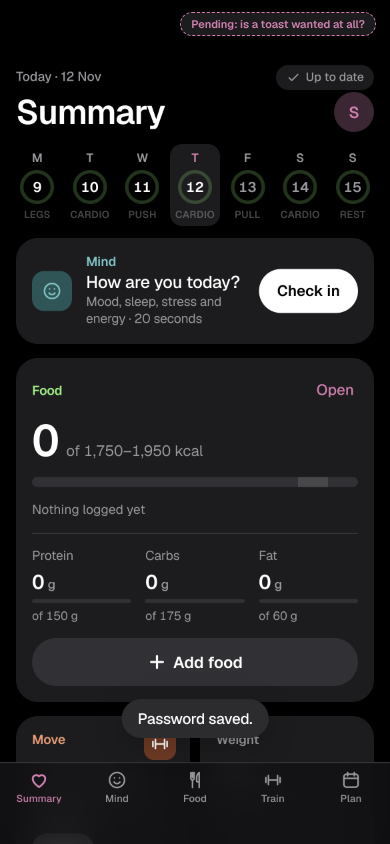
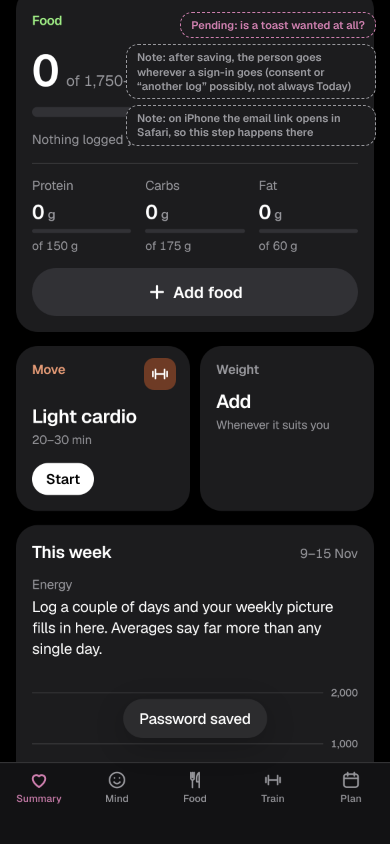
Set a new password: boards revised after design review (still draft)
Claude-Session: https://claude.ai/code/session_01QFyMgj1mZ1V9GsaoNwqiJf

diff --git a/docs/design/set-password-v1/README.md b/docs/design/set-password-v1/README.md
@@ -1,18 +1,32 @@
 # Set a new password v1 boards (DRAFT, not approved)
 
-**Status: draft for Benn's or Sara's review, 12 Nov 2026. Not approved: don't build from these.** Per CLAUDE.md, no design ships without Benn's or Sara's approval; when one of them approves or changes these boards, this folder is updated to match.
+**Status: draft for Benn's or Sara's review, 12 Nov 2026, revised after a design review the same day. Not approved: don't build from these.** Per CLAUDE.md, no design ships without Benn's or Sara's approval; when one of them approves or changes these boards, this folder is updated to match.
 
 - Why: the reset link from "Forgot?" signs the person straight in with a recovery session. The app never handles Supabase's `PASSWORD_RECOVERY` event or calls `updateUser({ password })`, so nobody can set a new password, and an account that only uses Google can't add one. This adds one step.
 - Built on the existing sign-in frame (`src/screens/AuthScreen.tsx`, the `auth2` styles in `src/styles/theme.css`), so it adds no new pattern.
 - Live boards, with notes and both modes side by side: the claude.ai Design canvas, page "Set a new password (draft for Benn/Sara)": https://claude.ai/artifact/EYDHM6mLouqwPsWxcDsWEb (only people the canvas is shared with can open it)
-- These PNGs are 390 px exports of the same boards, light and dark, drawn at an iPhone's 390 × 844 with its top and bottom safe areas. Dashed tags on a board mark items still pending.
+- These PNGs are 390 px exports of the same boards, light and dark, drawn at an iPhone's 390 × 844 with its top and bottom safe areas. Board 5 is taller (980) because that screen scrolls. Dashed tags on a board mark items still pending (mauve) or notes (grey).
 
 ## Open decisions for Benn or Sara
 
-1. The foot link on board 1: "Not now" (keeps the person signed in and opens the app) or "Cancel and sign out".
-2. Board 4: whether to show the toast "Password saved." at all, or land on Today with nothing.
-3. Board 5 is a new state: a link that has expired or was already used opens "Reset your password" with a notice.
-4. Board 3 wording: "Saving a new password needs a connection. Try again when you're online." (the brief said "You're offline. Connect to save your new password."; this one follows the app's other offline lines).
+1. The foot link on board 1. Both exits leave the person without a password they know, and there's no other place to set one. Recommended: "Not now", which keeps them signed in, since a reload during this step already does that. The alternative is "Cancel and sign out".
+2. Board 4: whether to show the toast "Password saved" at all.
+3. Board 5 is a new state: a link that has expired or was already used opens Sign in with the notice "That link has expired or was already used. Sign in, or ask for a new one." It's Sign in, not Reset, because an expired link's URL doesn't say whether it was a sign-up or a reset link. Someone already signed in who opens a used link sees nothing: they're already in.
+4. Board 3 wording: "Needs a connection. Try again when you're online." (the brief said "You're offline. Connect to save your new password."; this one follows the app's other offline lines and fits on one line).
+5. Server error wording (no boards; same red line under the fields as boards 2 and 3):
+   - Same as the current password: "That's your current password. Choose a new one."
+   - Weak password: "Choose a longer or less common password."
+   - Session timed out, or the server needs a recent sign-in: back to Sign in with the board 5 notice.
+   - Too short: reuses "Password must be at least 8 characters."
+   - While saving: the button reads "Please wait…", as on sign-in.
+
+## Notes for the build
+
+- Board 1 has no visible email field; the email is in the subtitle. Add a read-only email input with `autocomplete="username"`, visually hidden (not `display: none`), so password managers save the new password against the right account. Both fields are `type="password"` with `autocomplete="new-password"`.
+- The foot link is drawn 44 px tall (padding only, no visible change). The live app's foot links are about 31 px today, which is an existing issue to fix as well.
+- After saving, the person goes wherever a sign-in goes: the consent screen or the "another log" screen are possible, so not always Today.
+- On iPhone the email link opens in Safari, not the installed app, so this whole step happens there.
+- Board 4 is the real Today screen captured from the app, with the app's own toast. It's scrolled so the toast covers no text, and the tab bar is drawn opaque to stand in for its blur (headless screenshots don't render the blur).
 
 ## Boards
 
@@ -22,16 +36,16 @@
 
 **2 The passwords don't match** ([dark](spw-2-mismatch-dark.png))
 
-<img src="spw-2-mismatch-light.png" width="300" alt="The same screen with both fields filled and the red line Passwords do not match. under the fields">
+<img src="spw-2-mismatch-light.png" width="300" alt="The same screen with both password fields filled and the red line Passwords do not match. under the fields">
 
 **3 Offline: the button stays enabled** ([dark](spw-3-offline-dark.png))
 
-<img src="spw-3-offline-light.png" width="300" alt="The same screen with both fields filled and the red line Saving a new password needs a connection. Try again when you're online.">
+<img src="spw-3-offline-light.png" width="300" alt="The same screen with both password fields filled and the red line Needs a connection. Try again when you're online.">
 
-**4 Saved: Today with the toast "Password saved."** ([dark](spw-4-saved-dark.png))
+**4 Saved: the toast "Password saved", then wherever a sign-in lands** ([dark](spw-4-saved-dark.png))
 
-<img src="spw-4-saved-light.png" width="300" alt="The Today Summary screen with the toast Password saved. just above the tab bar">
+<img src="spw-4-saved-light.png" width="300" alt="The Today Summary screen scrolled to the Food, Move, Weight and This week cards, with the toast Password saved just above the tab bar">
 
-**5 The link has expired or was already used** ([dark](spw-5-expired-dark.png))
+**5 The link has expired or was already used: Sign in with a notice** ([dark](spw-5-expired-dark.png))
 
-<img src="spw-5-expired-light.png" width="300" alt="Reset your password with a notice at the top: That link has expired or was already used. Send yourself a new one. The email field is empty and ready to type in, with the Send reset link button below">
+<img src="spw-5-expired-light.png" width="300" alt="The Welcome back sign-in screen with a notice at the top: That link has expired or was already used. Sign in, or ask for a new one. Below it the email and password fields, Sign in, Continue with Google and Create an account">

diff --git a/docs/plans/password-recovery.md b/docs/plans/password-recovery.md
@@ -49,8 +49,8 @@ usually first, but not guaranteed, and auth-js removes the hash from the URL bef
   for a new one."), through the existing `authNotice` banner. If the person is already signed in, nothing
   shows. A recovery session that has timed out when they save goes the same way.
 - Server errors (wording on the boards for approval): `same_password` "That's your current password.
-  Choose a new one."; `weak_password` "Choose a longer or less common password."; offline "Saving a new
-  password needs a connection. Try again when you're online."
+  Choose a new one."; `weak_password` "Choose a longer or less common password."; offline "Needs a connection.
+  Try again when you're online."
 - The foot links on the auth screens are 31 px tall; bring them to 44 px with padding (no visible change).
 - Sync: the recovery session is a normal session for the same user, so sync and consent behave as
   after any sign-in. `security-data` to confirm, plus: no password ever stored or logged; Supabase's
